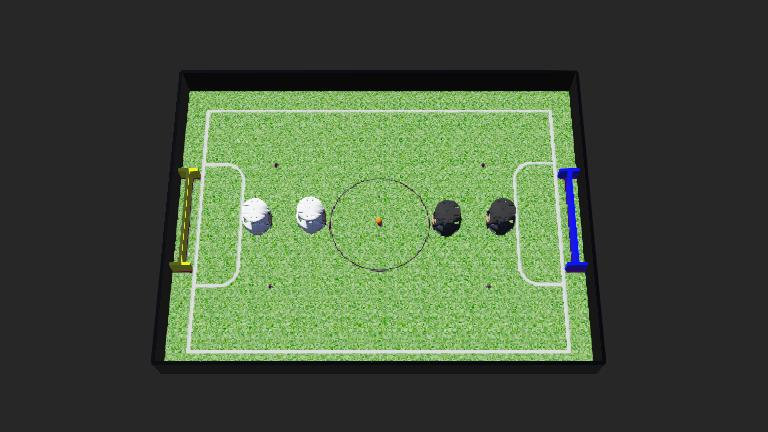
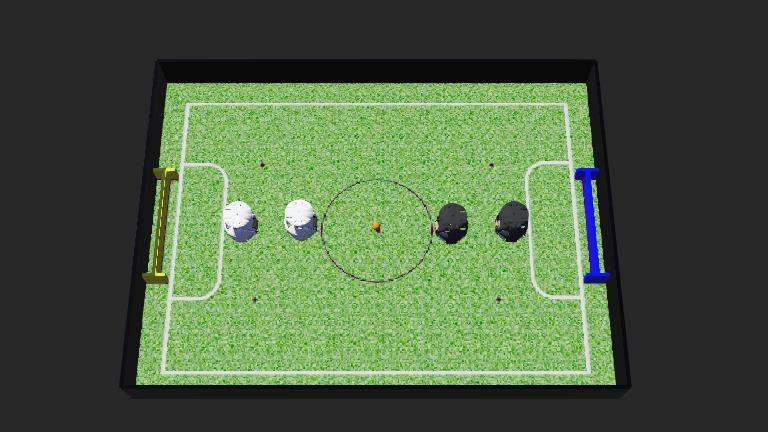
asdf

diff --git a/controllers/game_supervisor/game_supervisor.py b/controllers/game_supervisor/game_supervisor.py
@@ -4,7 +4,7 @@ import random
 
 TIME_STEP = 32
 STUCK_TIMEOUT = 6.0
-MOVE_THRESHOLD = 0.001  # متر
+MOVE_THRESHOLD = 0.004  # متر
 
 # ۵ نقطه استاندارد برای اسپاون مجدد توپ در صورت گیر کردن
 RESPAWN_POINTS = [
@@ -51,6 +51,41 @@ KICKOFF_POSITIONS = {
         "B2": {"pos": [ 0.72,  0.00, 0.04], "rot": [0, 0, 1, math.pi]},   # مهاجم آبی (عقبتر در نیمه خود)
     }
 }
+
+
+# ---- راهاندازی سوپروایزر ----
+robot = Supervisor()
+
+# توپ
+ball_node = robot.getFromDef("BALL")
+if ball_node is None:
+    raise RuntimeError("Ball node with DEF 'BALL' not found.")
+ball_translation = ball_node.getField("translation")
+last_position = ball_translation.getSFVec3f()
+stuck_time = 0.0
+
+# رباتها (Y1, Y2, B1, B2)
+# مطمئن شوید در درخت صحنه (Scene Tree) فیلد DEF رباتها دقیقاً یکی از این نامها باشد
+robot_defs = ["Y1", "Y2", "B1", "B2"]
+robots_data = {}
+
+for r_def in robot_defs:
+    node = robot.getFromDef(r_def)
+    if node is not None:
+        robots_data[r_def] = {
+            "node": node,
+            "translation": node.getField("translation"),
+            "rotation": node.getField("rotation")
+        }
+    else:
+        print(f"[Warning] Robot with DEF '{r_def}' not found in WorldInfo/Scene Tree.")
+
+
+
+# متغیرهای امتیاز و وضعیت
+score_yellow = 0
+score_blue = 0
+goal_cooldown = 0  # فریمهای مکث پس از گل
 
 
 def distance2d(a, b):
@@ -101,34 +136,6 @@ def check_out_of_bounds(pos):
     return is_out, [new_x, new_y, BALL_Z]
 
 
-# ---- راهاندازی سوپروایزر ----
-robot = Supervisor()
-
-# توپ
-ball_node = robot.getFromDef("BALL")
-if ball_node is None:
-    raise RuntimeError("Ball node with DEF 'BALL' not found.")
-ball_translation = ball_node.getField("translation")
-last_position = ball_translation.getSFVec3f()
-stuck_time = 0.0
-
-# رباتها (Y1, Y2, B1, B2)
-# مطمئن شوید در درخت صحنه (Scene Tree) فیلد DEF رباتها دقیقاً یکی از این نامها باشد
-robot_defs = ["Y1", "Y2", "B1", "B2"]
-robots_data = {}
-
-for r_def in robot_defs:
-    node = robot.getFromDef(r_def)
-    if node is not None:
-        robots_data[r_def] = {
-            "node": node,
-            "translation": node.getField("translation"),
-            "rotation": node.getField("rotation")
-        }
-    else:
-        print(f"[Warning] Robot with DEF '{r_def}' not found in WorldInfo/Scene Tree.")
-
-
 def respawn_robots(kickoff_team):
     """
     ریست کردن موقعیت و فیزیک ۴ ربات براساس تیمی که گل خورده است
@@ -151,10 +158,6 @@ def respawn_robots(kickoff_team):
             r_info["node"].resetPhysics()
 
 
-# متغیرهای امتیاز و وضعیت
-score_yellow = 0
-score_blue = 0
-goal_cooldown = 0  # فریمهای مکث پس از گل
 
 def update_scoreboard(status_text="", status_color=0x00FF66):
     """
@@ -189,12 +192,12 @@ while robot.step(TIME_STEP) != -1:
         if scoring_team == "YELLOW":
             score_yellow += 1
             kickoff_team = "BLUE"  # زرد گل زده -> آبی شروعکننده است
-            print(f"[GOAL!] Team YELLOW scored! ({score_yellow} - {score_blue})")
+            # print(f"[GOAL!] Team YELLOW scored! ({score_yellow} - {score_blue})")
             update_scoreboard("GOAL FOR YELLOW!", 0xFFFF00)
         else:
             score_blue += 1
             kickoff_team = "YELLOW"  # آبی گل زده -> زرد شروعکننده است
-            print(f"[GOAL!] Team BLUE scored! ({score_yellow} - {score_blue})")
+            # print(f"[GOAL!] Team BLUE scored! ({score_yellow} - {score_blue})")
             update_scoreboard("GOAL FOR BLUE!", 0x3399FF)
 
         # ریست توپ به مرکز زمین
@@ -217,7 +220,7 @@ while robot.step(TIME_STEP) != -1:
         ball_node.resetPhysics()
         last_position = respawn_pos[:]
         stuck_time = 0.0
-        print(f"[Out of Bounds] Ball returned: {respawn_pos[:2]}")
+        # print(f"[Out of Bounds] Ball returned: {respawn_pos[:2]}")
         continue
 
     # ۴. بررسی گیر کردن توپ (Stuck)
@@ -232,9 +235,10 @@ while robot.step(TIME_STEP) != -1:
         ball_translation.setSFVec3f(target)
         ball_node.resetPhysics()
 
-        print(f"[Stuck] Ball respawned: {target}")
+        # print(f"[Stuck] Ball respawned: {target}")
         last_position = target[:]
         stuck_time = 0.0
         continue
 
     last_position = current_position[:]
+    

diff --git a/controllers/team_yellow/rcj_robot.py b/controllers/team_yellow/rcj_robot.py
@@ -7,8 +7,12 @@ class RCJRobot:
         self.robot = robot
         self.time_step = int(robot.getBasicTimeStep())
         
-        # شناسایی نام ربات
+        # شناسایی نام ربات و تیم
         self.name = robot.getName()
+        
+        # تشخیص خودکار تیم بر اساس نام ربات (یا میتوانید دستی مقداردهی کنید)
+        # اگر نام ربات با 'B' شروع شود یعنی تیم آبی است و باید مختصات را معکوس کند
+        self.is_blue_team = self.name.startswith("Robot_B")
 
         # راهاندازی موتورها
         self.wheel_names = ["wheel1_45_motor", "wheel2_135_motor", "wheel3_225_motor", "wheel4_315_motor"]
@@ -20,7 +24,7 @@ class RCJRobot:
                 m.setVelocity(0.0)
             self.motors.append(m)
 
-        # راهاندازی امن سنسورها (اگر روی ربات نبود، None برمیگرداند تا کرش نکند)
+        # راهاندازی امن سنسورها
         self.gps = robot.getDevice("gps")
         if self.gps:
             self.gps.enable(self.time_step)
@@ -40,14 +44,24 @@ class RCJRobot:
     def get_position(self):
         if self.gps:
             vals = self.gps.getValues()
-            return [vals[0], vals[1]] # x, y
+            x, y = vals[0], vals[1]
+            # اگر تیم آبی است، مختصات زمین را ۱۸۰ درجه برعکس میکنیم (-1 در X و Y)
+            if self.is_blue_team:
+                return [-x, -y]
+            return [x, y]
         return [0.0, 0.0]
 
     def get_heading(self):
         if self.compass:
             c = self.compass.getValues()
             rad = math.atan2(c[0], c[1])
-            return math.degrees(rad)
+            heading = math.degrees(rad)
+            # برای تیم آبی زاویه سر ربات نیز ۱۸۰ درجه معکوس میشود
+            if self.is_blue_team:
+                heading += 180
+                if heading > 180:
+                    heading -= 360
+            return math.radians(heading)
         return 0.0
 
     def get_ball_position(self):
@@ -55,7 +69,11 @@ class RCJRobot:
             packet = self.receiver.getBytes()
             ball_data = struct.unpack("ddd", packet)
             self.receiver.nextPacket()
-            return [ball_data[0], ball_data[1]]
+            bx, by = ball_data[0], ball_data[1]
+            # موقعیت توپ هم برای تیم آبی باید قرینه شود تا در دیدگاه آنها درست محاسبه شود
+            if self.is_blue_team:
+                return [-bx, -by]
+            return [bx, by]
         return None
 
     def is_ball_touched(self):
@@ -71,28 +89,6 @@ class RCJRobot:
                 if i % 2 == 1: 
                     val = -val 
                 self.motors[i].setVelocity(val)
-
-    def moveXY(self, vx, vy, w=0):
-        v1 = vx + vy + w
-        v2 = -vx + vy + w
-        v3 = -vx - vy + w
-        v4 = vx - vy + w
-        self.motor(v1, v2, v3, v4)
-
-    def moveAngle(self, angle_deg, speed):
-        rad = math.radians(angle_deg)
-        vx = -speed * math.sin(rad)
-        vy = speed * math.cos(rad)
-        self.moveXY(vx, vy, 0)
-
-    def moveTo(self, target_x, target_y, target_w=0):
-        pos = self.get_position()
-        heading = math.radians(self.get_heading())
-        
-        err_x = (pos[0] - target_x) * 50
-        err_y = (pos[1] - target_y) * 50
-        err_w = (heading - target_w) * 20
-        self.moveXY(err_y, -err_x, err_w)
 
     def step(self):
         return self.robot.step(self.time_step) != -1

diff --git a/controllers/team_blue/rcj_robot.py b/controllers/team_blue/rcj_robot.py
@@ -61,7 +61,7 @@ class RCJRobot:
                 heading += 180
                 if heading > 180:
                     heading -= 360
-            return heading
+            return math.radians(heading)
         return 0.0
 
     def get_ball_position(self):
@@ -89,28 +89,6 @@ class RCJRobot:
                 if i % 2 == 1: 
                     val = -val 
                 self.motors[i].setVelocity(val)
-
-    def moveXY(self, vx, vy, w=0):
-        v1 = vx + vy + w
-        v2 = -vx + vy + w
-        v3 = -vx - vy + w
-        v4 = vx - vy + w
-        self.motor(v1, v2, v3, v4)
-
-    def moveAngle(self, angle_deg, speed):
-        rad = math.radians(angle_deg)
-        vx = -speed * math.sin(rad)
-        vy = speed * math.cos(rad)
-        self.moveXY(vx, vy, 0)
-
-    def moveTo(self, target_x, target_y, target_w=0):
-        pos = self.get_position()
-        heading = math.radians(self.get_heading())
-        
-        err_x = (pos[0] - target_x) * 50
-        err_y = (pos[1] - target_y) * 50
-        err_w = (heading - target_w) * 20
-        self.moveXY(err_y, -err_x, err_w)
 
     def step(self):
         return self.robot.step(self.time_step) != -1

diff --git a/controllers/team_blue/robot2.py b/controllers/team_blue/robot2.py
@@ -1,10 +1,19 @@
+import math
+from utils import *
+
 def run_robot(rcj):
-    # استراتژی روبات شماره ۲ (مثلاً دروازهبان)
-    my_pos = rcj.get_position()
-    # همیشه در یک ایکس ثابت بمان و فقط وای را با توپ تنظیم کن
+    # استراتژی روبات شماره ۱ (مثلاً مهاجم)
     ball_pos = rcj.get_ball_position()
-    
+    robot_heading = rcj.get_heading()
+    robot_pos = rcj.get_position()
+
     if ball_pos:
-        rcj.moveTo(-0.7, -0.5)
+        dx = ball_pos[0] - robot_pos[0]
+        dy = ball_pos[1] - robot_pos[1]
+        abs_angle = math.atan2(dy, dx)
+        relative_angle_rad = abs_angle - robot_heading
+        relative_angle_deg = math.degrees(relative_angle_rad)
+        shift = max(-60, min(relative_angle_deg * 0.8, 60))
+        moveAngle(rcj, relative_angle_deg , 20, 0)
     else:
-        rcj.moveTo(-0.7, 0)
+        rcj.motor(0, 0, 0, 0)

diff --git a/controllers/team_blue/robot1.py b/controllers/team_blue/robot1.py
@@ -1,10 +1,19 @@
+import math
+from utils import *
+
 def run_robot(rcj):
     # استراتژی روبات شماره ۱ (مثلاً مهاجم)
     ball_pos = rcj.get_ball_position()
-    
+    robot_heading = rcj.get_heading()
+    robot_pos = rcj.get_position()
+
     if ball_pos:
-        # اگر توپ را دید به سمتش برو
-        rcj.moveTo(-0.3, -0.5)
+        dx = ball_pos[0] - robot_pos[0]
+        dy = ball_pos[1] - robot_pos[1]
+        abs_angle = math.atan2(dy, dx)
+        relative_angle_rad = abs_angle - robot_heading
+        relative_angle_deg = math.degrees(relative_angle_rad)
+        shift = max(-60, min(relative_angle_deg * 0.8, 60))
+        moveAngle(rcj, relative_angle_deg , 20, 0)
     else:
-        # اگر ندید بایست
         rcj.motor(0, 0, 0, 0)

diff --git a/controllers/team_yellow/robot1.py b/controllers/team_yellow/robot1.py
@@ -1,4 +1,5 @@
 import math
+from utils import *
 
 def run_robot(rcj):
     # استراتژی روبات شماره ۱ (مثلاً مهاجم)
@@ -11,10 +12,8 @@ def run_robot(rcj):
         dy = ball_pos[1] - robot_pos[1]
         abs_angle = math.atan2(dy, dx)
         relative_angle_rad = abs_angle - robot_heading
-        # اگر توپ را دید به سمتش برو
         relative_angle_deg = math.degrees(relative_angle_rad)
         shift = max(-60, min(relative_angle_deg * 0.8, 60))
-        rcj.moveAngle(relative_angle_deg + shift, 20)
+        moveAngle(rcj, relative_angle_deg + shift, 20, robot_heading)
     else:
-        # اگر ندید بایست
         rcj.motor(0, 0, 0, 0)

diff --git a/controllers/team_blue/utils.py b/controllers/team_blue/utils.py
@@ -1,0 +1,23 @@
+import math
+
+def moveXY(robot, vx, vy, w=0):
+    v1 = vx + vy + w
+    v2 = -vx + vy + w
+    v3 = -vx - vy + w
+    v4 = vx - vy + w
+    robot.motor(v1, v2, v3, v4)
+
+def moveAngle(robot, angle_deg, speed, heading):
+    rad = math.radians(angle_deg)
+    vx = -speed * math.sin(rad)
+    vy = speed * math.cos(rad)
+    moveXY(robot, vx, vy, heading*20)
+
+def moveTo(robot, target_x, target_y, target_w=0):
+    pos = robot.get_position()
+    heading = robot.get_heading()
+    
+    err_x = (pos[0] - target_x) * 50
+    err_y = (pos[1] - target_y) * 50
+    err_w = (heading - target_w) * 20
+    moveXY(robot, err_y, -err_x, err_w)

diff --git a/controllers/team_yellow/utils.py b/controllers/team_yellow/utils.py
@@ -1,0 +1,23 @@
+import math
+
+def moveXY(robot, vx, vy, w=0):
+    v1 = vx + vy + w
+    v2 = -vx + vy + w
+    v3 = -vx - vy + w
+    v4 = vx - vy + w
+    robot.motor(v1, v2, v3, v4)
+
+def moveAngle(robot, angle_deg, speed, heading):
+    rad = math.radians(angle_deg)
+    vx = -speed * math.sin(rad)
+    vy = speed * math.cos(rad)
+    moveXY(robot, vx, vy, heading*20)
+
+def moveTo(robot, target_x, target_y, target_w=0):
+    pos = robot.get_position()
+    heading = robot.get_heading()
+    
+    err_x = (pos[0] - target_x) * 50
+    err_y = (pos[1] - target_y) * 50
+    err_w = (heading - target_w) * 20
+    moveXY(robot, err_y, -err_x, err_w)

diff --git a/controllers/team_yellow/robot2.py b/controllers/team_yellow/robot2.py
@@ -1,3 +1,7 @@
+import math
+from utils import *
+
+
 def run_robot(rcj):
     # استراتژی روبات شماره ۲ (مثلاً دروازهبان)
     my_pos = rcj.get_position()
@@ -5,6 +9,6 @@ def run_robot(rcj):
     ball_pos = rcj.get_ball_position()
     
     if ball_pos:
-        rcj.moveTo(-0.7, ball_pos[1])
+        moveTo(rcj, -0.7, ball_pos[1])
     else:
-        rcj.moveTo(-0.7, 0)
+        moveTo(rcj, -0.7, 0)
